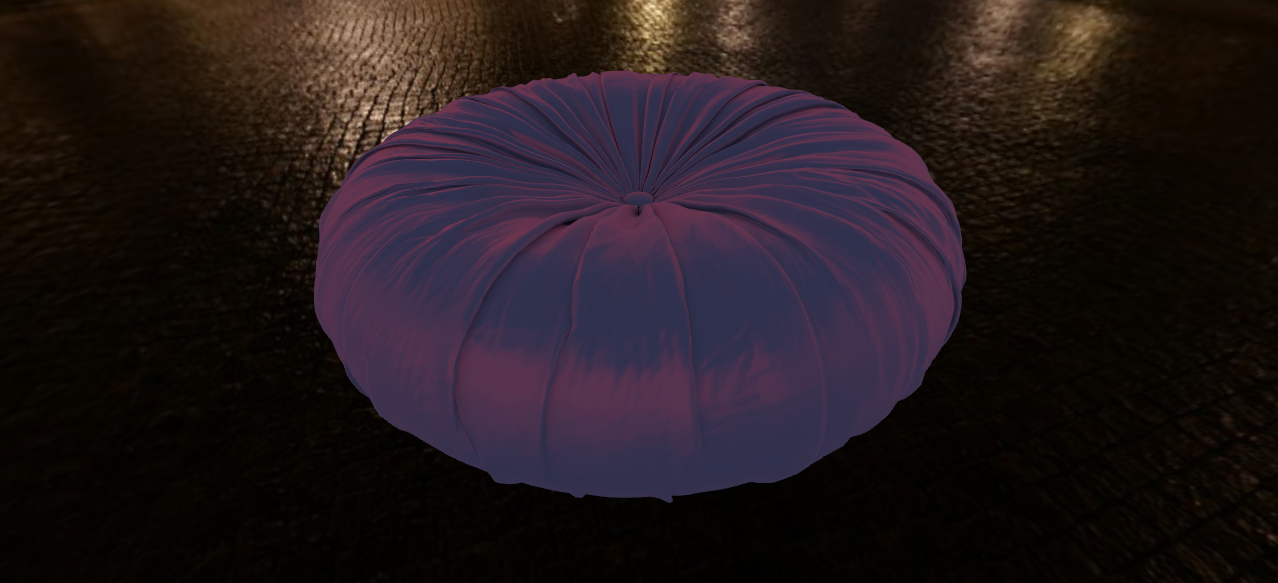
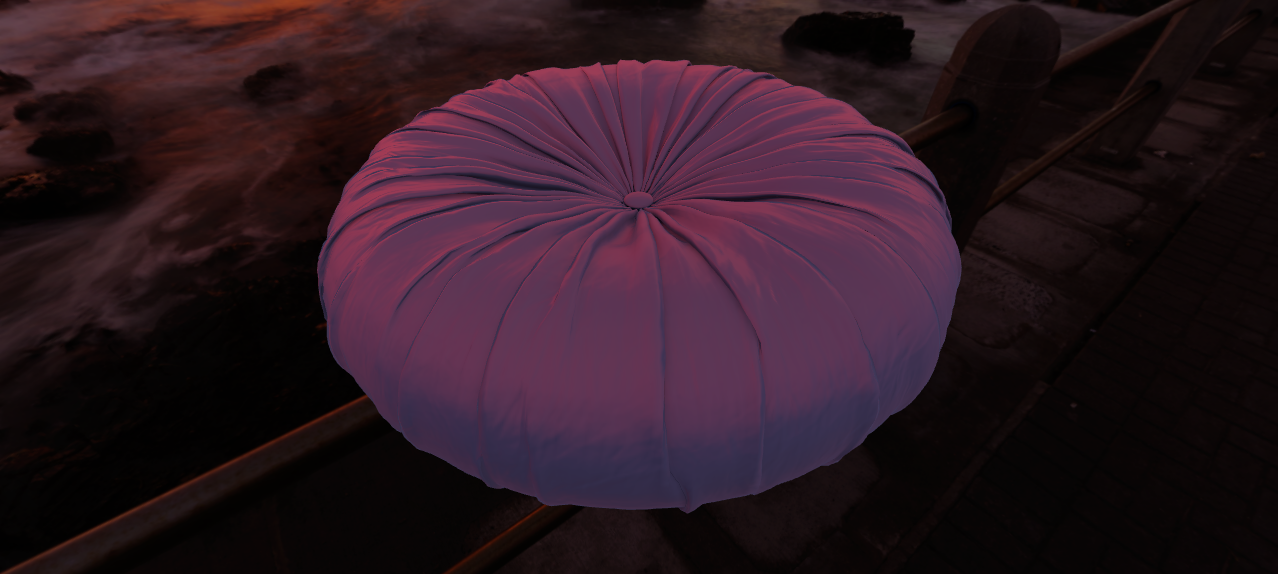
Refactor specular examples:
- Simplify `loadGLTF` by removing unused skybox and cube texture logic.
- Standardize `renderTestPane` with IBL helper integration.
- Adjust camera controller settings for consistent framing.
- Remove redundant comments for cleaner and more maintainable code.
- Update thumbnails for visual consistency.

diff --git a/examples/gltf/gltfExtensions/specular/specularTest/index.js b/examples/gltf/gltfExtensions/specular/specularTest/index.js
@@ -1,77 +1,49 @@
-import * as RedGPU from "../../../../../dist/index.js";;
+import * as RedGPU from "../../../../../dist/index.js";
 
-// 1. Create and append a canvas
-// 1. 캔버스를 생성하고 문서에 추가
 const canvas = document.createElement('canvas');
 document.body.appendChild(canvas);
 
-// 2. Initialize RedGPU
-// 2. RedGPU 초기화
 RedGPU.init(
-    canvas,
-    (redGPUContext) => {
-        // Create a camera controller (Orbit type)
-        // 궤도형 카메라 컨트롤러 생성
-        const controller = new RedGPU.Camera.ObitController(redGPUContext);
-        controller.distance = 2
-        controller.speedDistance = 0.1
-        controller.tilt = 0
+  canvas,
+  (redGPUContext) => {
+    const controller = new RedGPU.Camera.ObitController(redGPUContext);
+    controller.distance = 2
+    controller.speedDistance = 0.1
+    controller.tilt = 0
 
-        // Create a scene and add a view with the camera controller
-        // 씬을 생성하고 카메라 컨트롤러와 함께 뷰 추가
-        const scene = new RedGPU.Display.Scene();
-        const view = new RedGPU.Display.View3D(redGPUContext, scene, controller);
-        redGPUContext.addView(view);
+    const scene = new RedGPU.Display.Scene();
+    const view = new RedGPU.Display.View3D(redGPUContext, scene, controller);
+    redGPUContext.addView(view);
 
+    loadGLTF(view, 'https://raw.githubusercontent.com/KhronosGroup/glTF-Sample-Assets/main/Models/SpecularTest/glTF/SpecularTest.gltf');
 
-        loadGLTF(view, 'https://raw.githubusercontent.com/KhronosGroup/glTF-Sample-Assets/main/Models/SpecularTest/glTF/SpecularTest.gltf',);
+    const renderer = new RedGPU.Renderer(redGPUContext);
+    const render = () => {};
+    renderer.start(redGPUContext, render);
 
-        // Create a renderer and start rendering
-        // 렌더러 생성 후 렌더링 시작
-        const renderer = new RedGPU.Renderer(redGPUContext);
-        const render = () => {
-
-        };
-        renderer.start(redGPUContext, render);
-
-    },
-    (failReason) => {
-        // Handle initialization failure
-        console.error('Initialization failed:', failReason); // 초기화 실패 로그 출력
-        const errorMessage = document.createElement('div');
-        errorMessage.innerHTML = failReason; // 실패 원인 메시지를 표시
-        document.body.appendChild(errorMessage);
-    }
+    renderTestPane(redGPUContext, view);
+  },
+  (failReason) => {
+    console.error('RedGPU initialization failed:', failReason);
+    const errorDiv = document.createElement('div');
+    errorDiv.innerHTML = failReason;
+    document.body.appendChild(errorDiv);
+  }
 );
 
 function loadGLTF(view, url) {
-    const {redGPUContext, scene} = view
-    const cubeTexture =
-        new RedGPU.Resource.CubeTexture(redGPUContext, [
-            "../../../../assets/skybox/px.jpg", // Positive X
-            "../../../../assets/skybox/nx.jpg", // Negative X
-            "../../../../assets/skybox/py.jpg", // Positive Y
-            "../../../../assets/skybox/ny.jpg", // Negative Y
-            "../../../../assets/skybox/pz.jpg", // Positive Z
-            "../../../../assets/skybox/nz.jpg", // Negative Z
-        ])
-    view.iblTexture = cubeTexture
-    view.skybox = new RedGPU.Display.SkyBox(redGPUContext, cubeTexture)
-    let mesh
-    new RedGPU.GLTFLoader(
-        redGPUContext,
-        url,
-        (v) => {
-            mesh = scene.addChild(v['resultMesh'])
-            mesh.setScale(2)
-        }
-    )
+  const {redGPUContext, scene} = view;
+  new RedGPU.GLTFLoader(redGPUContext, url, (result) => {
+    const mesh = result.resultMesh
+    mesh.setScale(2)
+    scene.addChild(mesh)
+  });
 }
 
+const renderTestPane = async (redGPUContext, targetView) => {
+  const {Pane} = await import('https://cdn.jsdelivr.net/npm/tweakpane@4.0.3/dist/tweakpane.min.js');
+  const {createIblHelper} = await import('../../../../exampleHelper/createExample/panes/index.js');
 
-
-const renderTestPane = async (redGPUContext, mesh) => {
-    const {Pane} = await import('https://cdn.jsdelivr.net/npm/tweakpane@4.0.3/dist/tweakpane.min.js');
-    const pane = new Pane();
-
+  const pane = new Pane();
+  createIblHelper(pane, targetView, RedGPU);
 };

diff --git a/examples/gltf/gltfExtensions/specular/compareSpecular/index.js b/examples/gltf/gltfExtensions/specular/compareSpecular/index.js
@@ -1,76 +1,48 @@
-import * as RedGPU from "../../../../../dist/index.js";;
+import * as RedGPU from "../../../../../dist/index.js";
 
-// 1. Create and append a canvas
-// 1. 캔버스를 생성하고 문서에 추가
 const canvas = document.createElement('canvas');
 document.body.appendChild(canvas);
 
-// 2. Initialize RedGPU
-// 2. RedGPU 초기화
 RedGPU.init(
-    canvas,
-    (redGPUContext) => {
-        // Create a camera controller (Orbit type)
-        // 궤도형 카메라 컨트롤러 생성
-        const controller = new RedGPU.Camera.ObitController(redGPUContext);
-        controller.distance = 2
-        controller.speedDistance = 0.1
-        controller.tilt = 0
+  canvas,
+  (redGPUContext) => {
+    const controller = new RedGPU.Camera.ObitController(redGPUContext);
+    controller.distance = 2
+    controller.speedDistance = 0.1
+    controller.tilt = 0
 
-        // Create a scene and add a view with the camera controller
-        // 씬을 생성하고 카메라 컨트롤러와 함께 뷰 추가
-        const scene = new RedGPU.Display.Scene();
-        const view = new RedGPU.Display.View3D(redGPUContext, scene, controller);
-        redGPUContext.addView(view);
+    const scene = new RedGPU.Display.Scene();
+    const view = new RedGPU.Display.View3D(redGPUContext, scene, controller);
+    redGPUContext.addView(view);
 
+    loadGLTF(view, 'https://raw.githubusercontent.com/KhronosGroup/glTF-Sample-Assets/main/Models/CompareSpecular/glTF/CompareSpecular.gltf');
 
-        loadGLTF(view, 'https://raw.githubusercontent.com/KhronosGroup/glTF-Sample-Assets/main/Models/CompareSpecular/glTF/CompareSpecular.gltf',);
+    const renderer = new RedGPU.Renderer(redGPUContext);
+    const render = () => {};
+    renderer.start(redGPUContext, render);
 
-        // Create a renderer and start rendering
-        // 렌더러 생성 후 렌더링 시작
-        const renderer = new RedGPU.Renderer(redGPUContext);
-        const render = () => {
-
-        };
-        renderer.start(redGPUContext, render);
-
-    },
-    (failReason) => {
-        // Handle initialization failure
-        console.error('Initialization failed:', failReason); // 초기화 실패 로그 출력
-        const errorMessage = document.createElement('div');
-        errorMessage.innerHTML = failReason; // 실패 원인 메시지를 표시
-        document.body.appendChild(errorMessage);
-    }
+    renderTestPane(redGPUContext, view);
+  },
+  (failReason) => {
+    console.error('RedGPU initialization failed:', failReason);
+    const errorDiv = document.createElement('div');
+    errorDiv.innerHTML = failReason;
+    document.body.appendChild(errorDiv);
+  }
 );
 
 function loadGLTF(view, url) {
-    const {redGPUContext, scene} = view
-    const cubeTexture =
-        new RedGPU.Resource.CubeTexture(redGPUContext, [
-            "../../../../assets/skybox/px.jpg", // Positive X
-            "../../../../assets/skybox/nx.jpg", // Negative X
-            "../../../../assets/skybox/py.jpg", // Positive Y
-            "../../../../assets/skybox/ny.jpg", // Negative Y
-            "../../../../assets/skybox/pz.jpg", // Positive Z
-            "../../../../assets/skybox/nz.jpg", // Negative Z
-        ])
-    view.iblTexture = cubeTexture
-    view.skybox = new RedGPU.Display.SkyBox(redGPUContext, cubeTexture)
-    let mesh
-    new RedGPU.GLTFLoader(
-        redGPUContext,
-        url,
-        (v) => {
-            mesh = scene.addChild(v['resultMesh'])
-        }
-    )
+  const {redGPUContext, scene} = view;
+  new RedGPU.GLTFLoader(redGPUContext, url, (result) => {
+    const mesh = result.resultMesh
+    scene.addChild(mesh)
+  });
 }
 
+const renderTestPane = async (redGPUContext, targetView) => {
+  const {Pane} = await import('https://cdn.jsdelivr.net/npm/tweakpane@4.0.3/dist/tweakpane.min.js');
+  const {createIblHelper} = await import('../../../../exampleHelper/createExample/panes/index.js');
 
-
-const renderTestPane = async (redGPUContext, mesh) => {
-    const {Pane} = await import('https://cdn.jsdelivr.net/npm/tweakpane@4.0.3/dist/tweakpane.min.js');
-    const pane = new Pane();
-
+  const pane = new Pane();
+  createIblHelper(pane, targetView, RedGPU);
 };

diff --git a/examples/gltf/gltfExtensions/specular/specularSilkPouf/index.js b/examples/gltf/gltfExtensions/specular/specularSilkPouf/index.js
@@ -1,75 +1,47 @@
-import * as RedGPU from "../../../../../dist/index.js";;
+import * as RedGPU from "../../../../../dist/index.js";
 
-// 1. Create and append a canvas
-// 1. 캔버스를 생성하고 문서에 추가
 const canvas = document.createElement('canvas');
 document.body.appendChild(canvas);
 
-// 2. Initialize RedGPU
-// 2. RedGPU 초기화
 RedGPU.init(
-    canvas,
-    (redGPUContext) => {
-        // Create a camera controller (Orbit type)
-        // 궤도형 카메라 컨트롤러 생성
-        const controller = new RedGPU.Camera.ObitController(redGPUContext);
-        controller.distance = 1
-        controller.speedDistance = 0.1
+  canvas,
+  (redGPUContext) => {
+    const controller = new RedGPU.Camera.ObitController(redGPUContext);
+    controller.distance = 1
+    controller.speedDistance = 0.1
 
-        // Create a scene and add a view with the camera controller
-        // 씬을 생성하고 카메라 컨트롤러와 함께 뷰 추가
-        const scene = new RedGPU.Display.Scene();
-        const view = new RedGPU.Display.View3D(redGPUContext, scene, controller);
-        redGPUContext.addView(view);
+    const scene = new RedGPU.Display.Scene();
+    const view = new RedGPU.Display.View3D(redGPUContext, scene, controller);
+    redGPUContext.addView(view);
 
+    loadGLTF(view, 'https://raw.githubusercontent.com/KhronosGroup/glTF-Sample-Assets/main/Models/SpecularSilkPouf/glTF/SpecularSilkPouf.gltf');
 
-        loadGLTF(view, 'https://raw.githubusercontent.com/KhronosGroup/glTF-Sample-Assets/main/Models/SpecularSilkPouf/glTF/SpecularSilkPouf.gltf',);
+    const renderer = new RedGPU.Renderer(redGPUContext);
+    const render = () => {};
+    renderer.start(redGPUContext, render);
 
-        // Create a renderer and start rendering
-        // 렌더러 생성 후 렌더링 시작
-        const renderer = new RedGPU.Renderer(redGPUContext);
-        const render = () => {
-
-        };
-        renderer.start(redGPUContext, render);
-
-    },
-    (failReason) => {
-        // Handle initialization failure
-        console.error('Initialization failed:', failReason); // 초기화 실패 로그 출력
-        const errorMessage = document.createElement('div');
-        errorMessage.innerHTML = failReason; // 실패 원인 메시지를 표시
-        document.body.appendChild(errorMessage);
-    }
+    renderTestPane(redGPUContext, view);
+  },
+  (failReason) => {
+    console.error('RedGPU initialization failed:', failReason);
+    const errorDiv = document.createElement('div');
+    errorDiv.innerHTML = failReason;
+    document.body.appendChild(errorDiv);
+  }
 );
 
 function loadGLTF(view, url) {
-    const {redGPUContext, scene} = view
-    const cubeTexture =
-        new RedGPU.Resource.CubeTexture(redGPUContext, [
-            "../../../../assets/skybox/px.jpg", // Positive X
-            "../../../../assets/skybox/nx.jpg", // Negative X
-            "../../../../assets/skybox/py.jpg", // Positive Y
-            "../../../../assets/skybox/ny.jpg", // Negative Y
-            "../../../../assets/skybox/pz.jpg", // Positive Z
-            "../../../../assets/skybox/nz.jpg", // Negative Z
-        ])
-    view.iblTexture = cubeTexture
-    view.skybox = new RedGPU.Display.SkyBox(redGPUContext, cubeTexture)
-    let mesh
-    new RedGPU.GLTFLoader(
-        redGPUContext,
-        url,
-        (v) => {
-            mesh = scene.addChild(v['resultMesh'])
-        }
-    )
+  const {redGPUContext, scene} = view;
+  new RedGPU.GLTFLoader(redGPUContext, url, (result) => {
+    const mesh = result.resultMesh
+    scene.addChild(mesh)
+  });
 }
 
+const renderTestPane = async (redGPUContext, targetView) => {
+  const {Pane} = await import('https://cdn.jsdelivr.net/npm/tweakpane@4.0.3/dist/tweakpane.min.js');
+  const {createIblHelper} = await import('../../../../exampleHelper/createExample/panes/index.js');
 
-
-const renderTestPane = async (redGPUContext, mesh) => {
-    const {Pane} = await import('https://cdn.jsdelivr.net/npm/tweakpane@4.0.3/dist/tweakpane.min.js');
-    const pane = new Pane();
-
+  const pane = new Pane();
+  createIblHelper(pane, targetView, RedGPU);
 };
